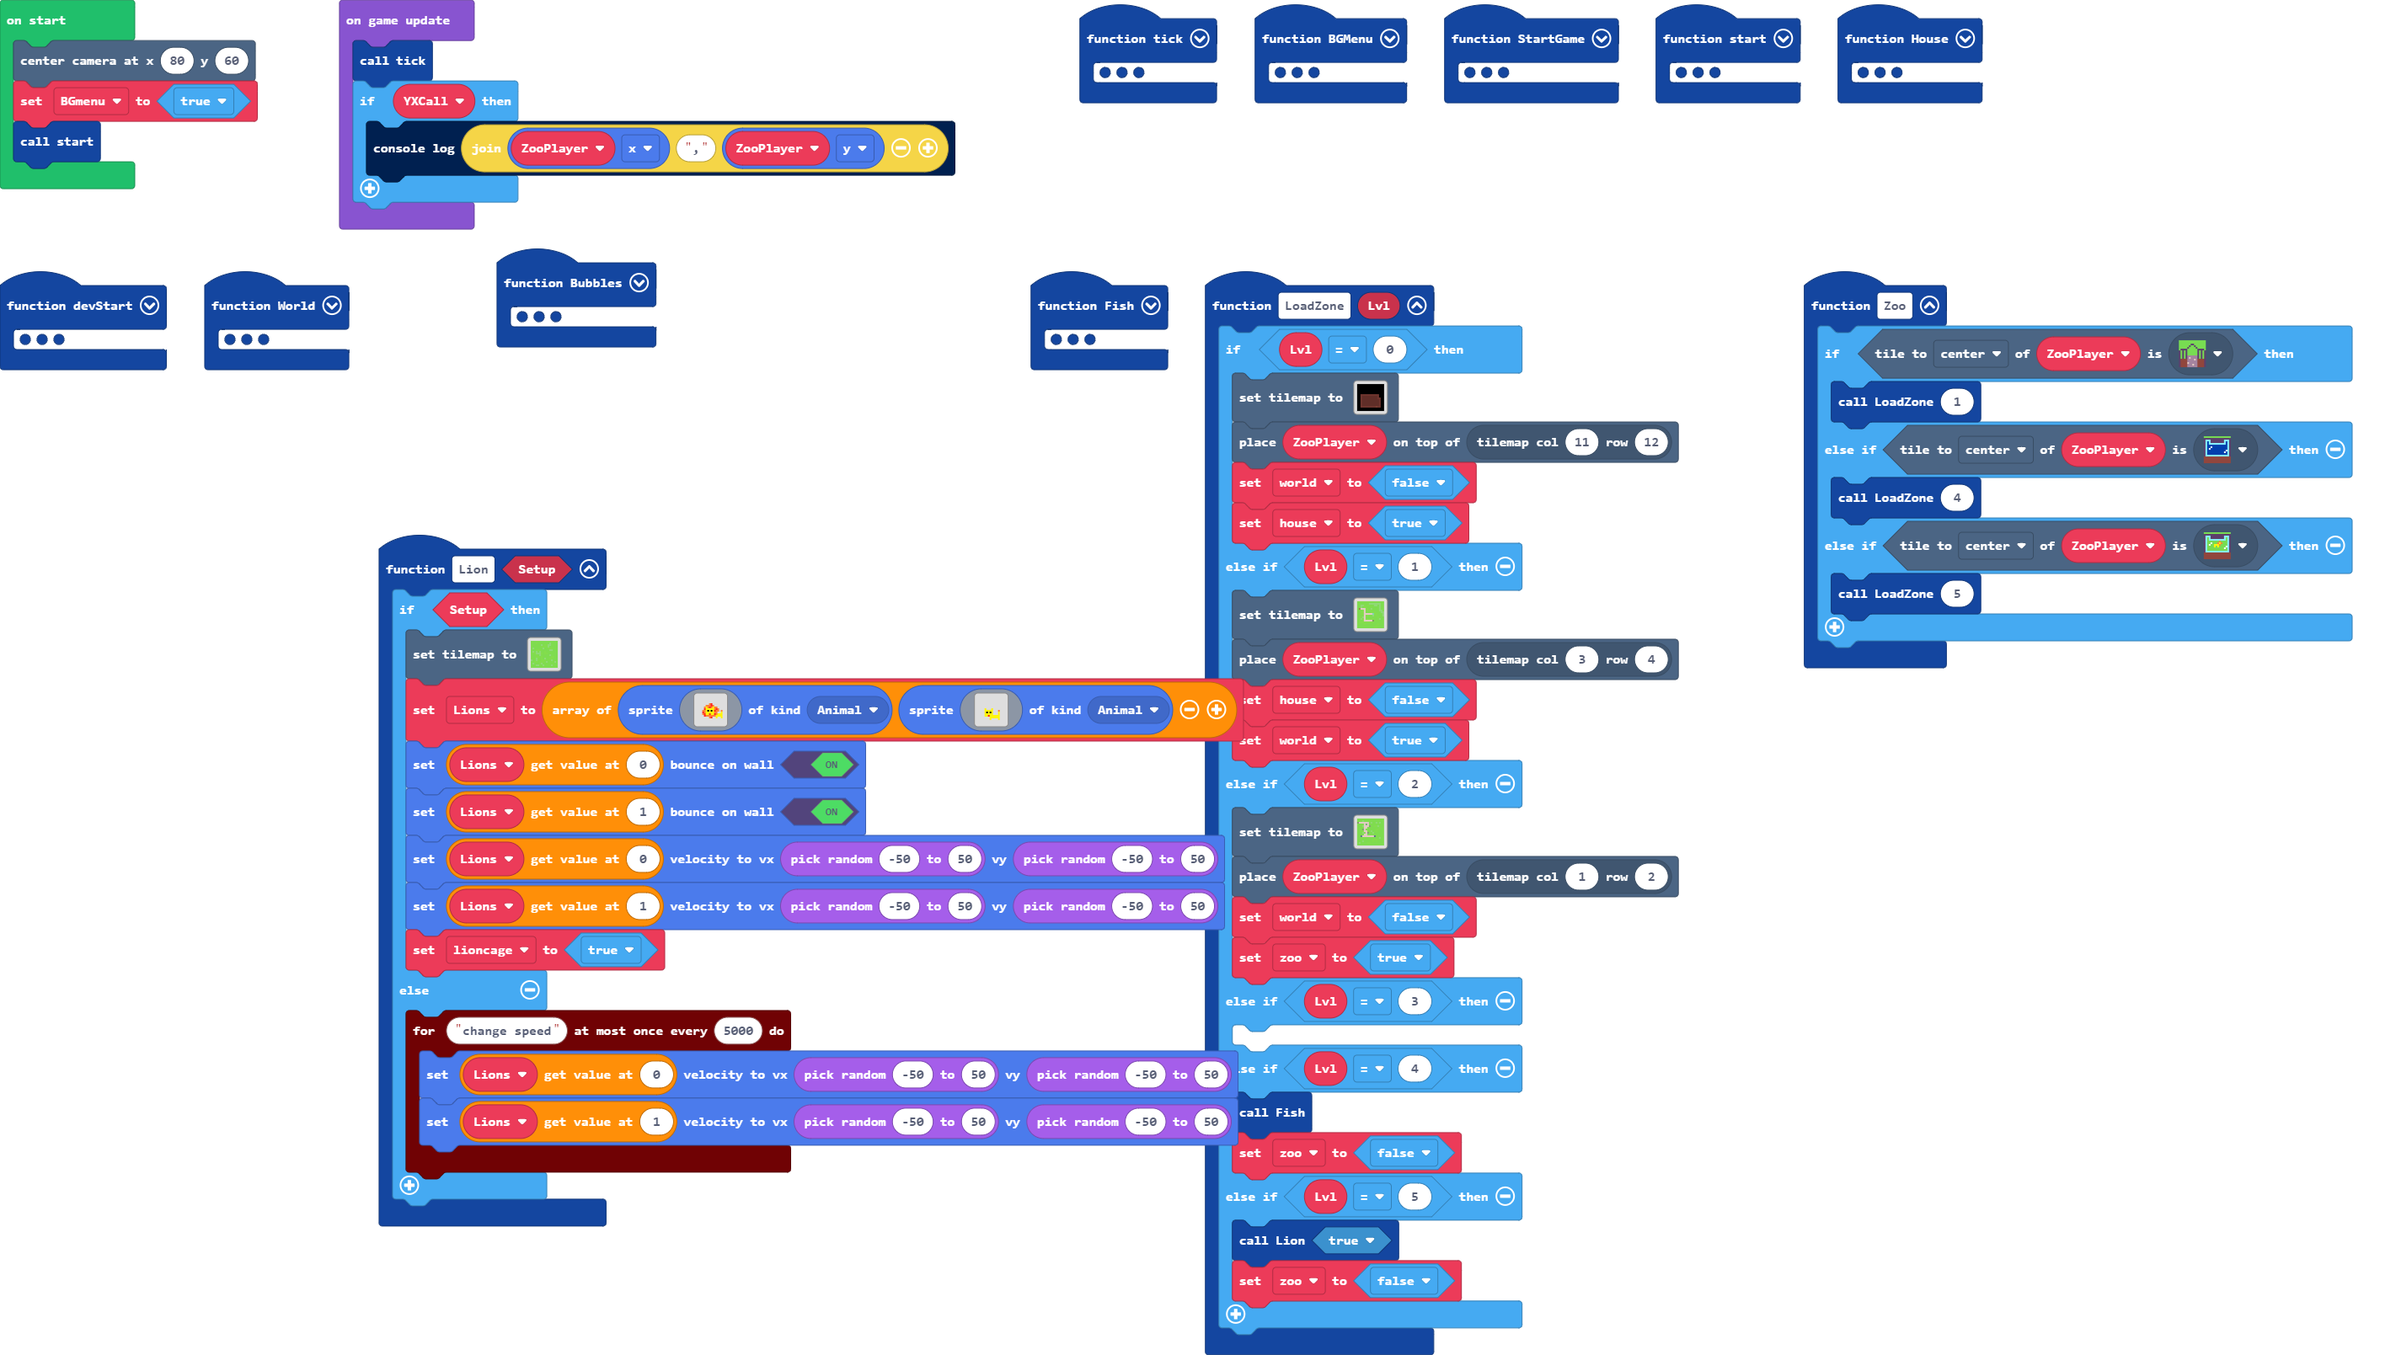
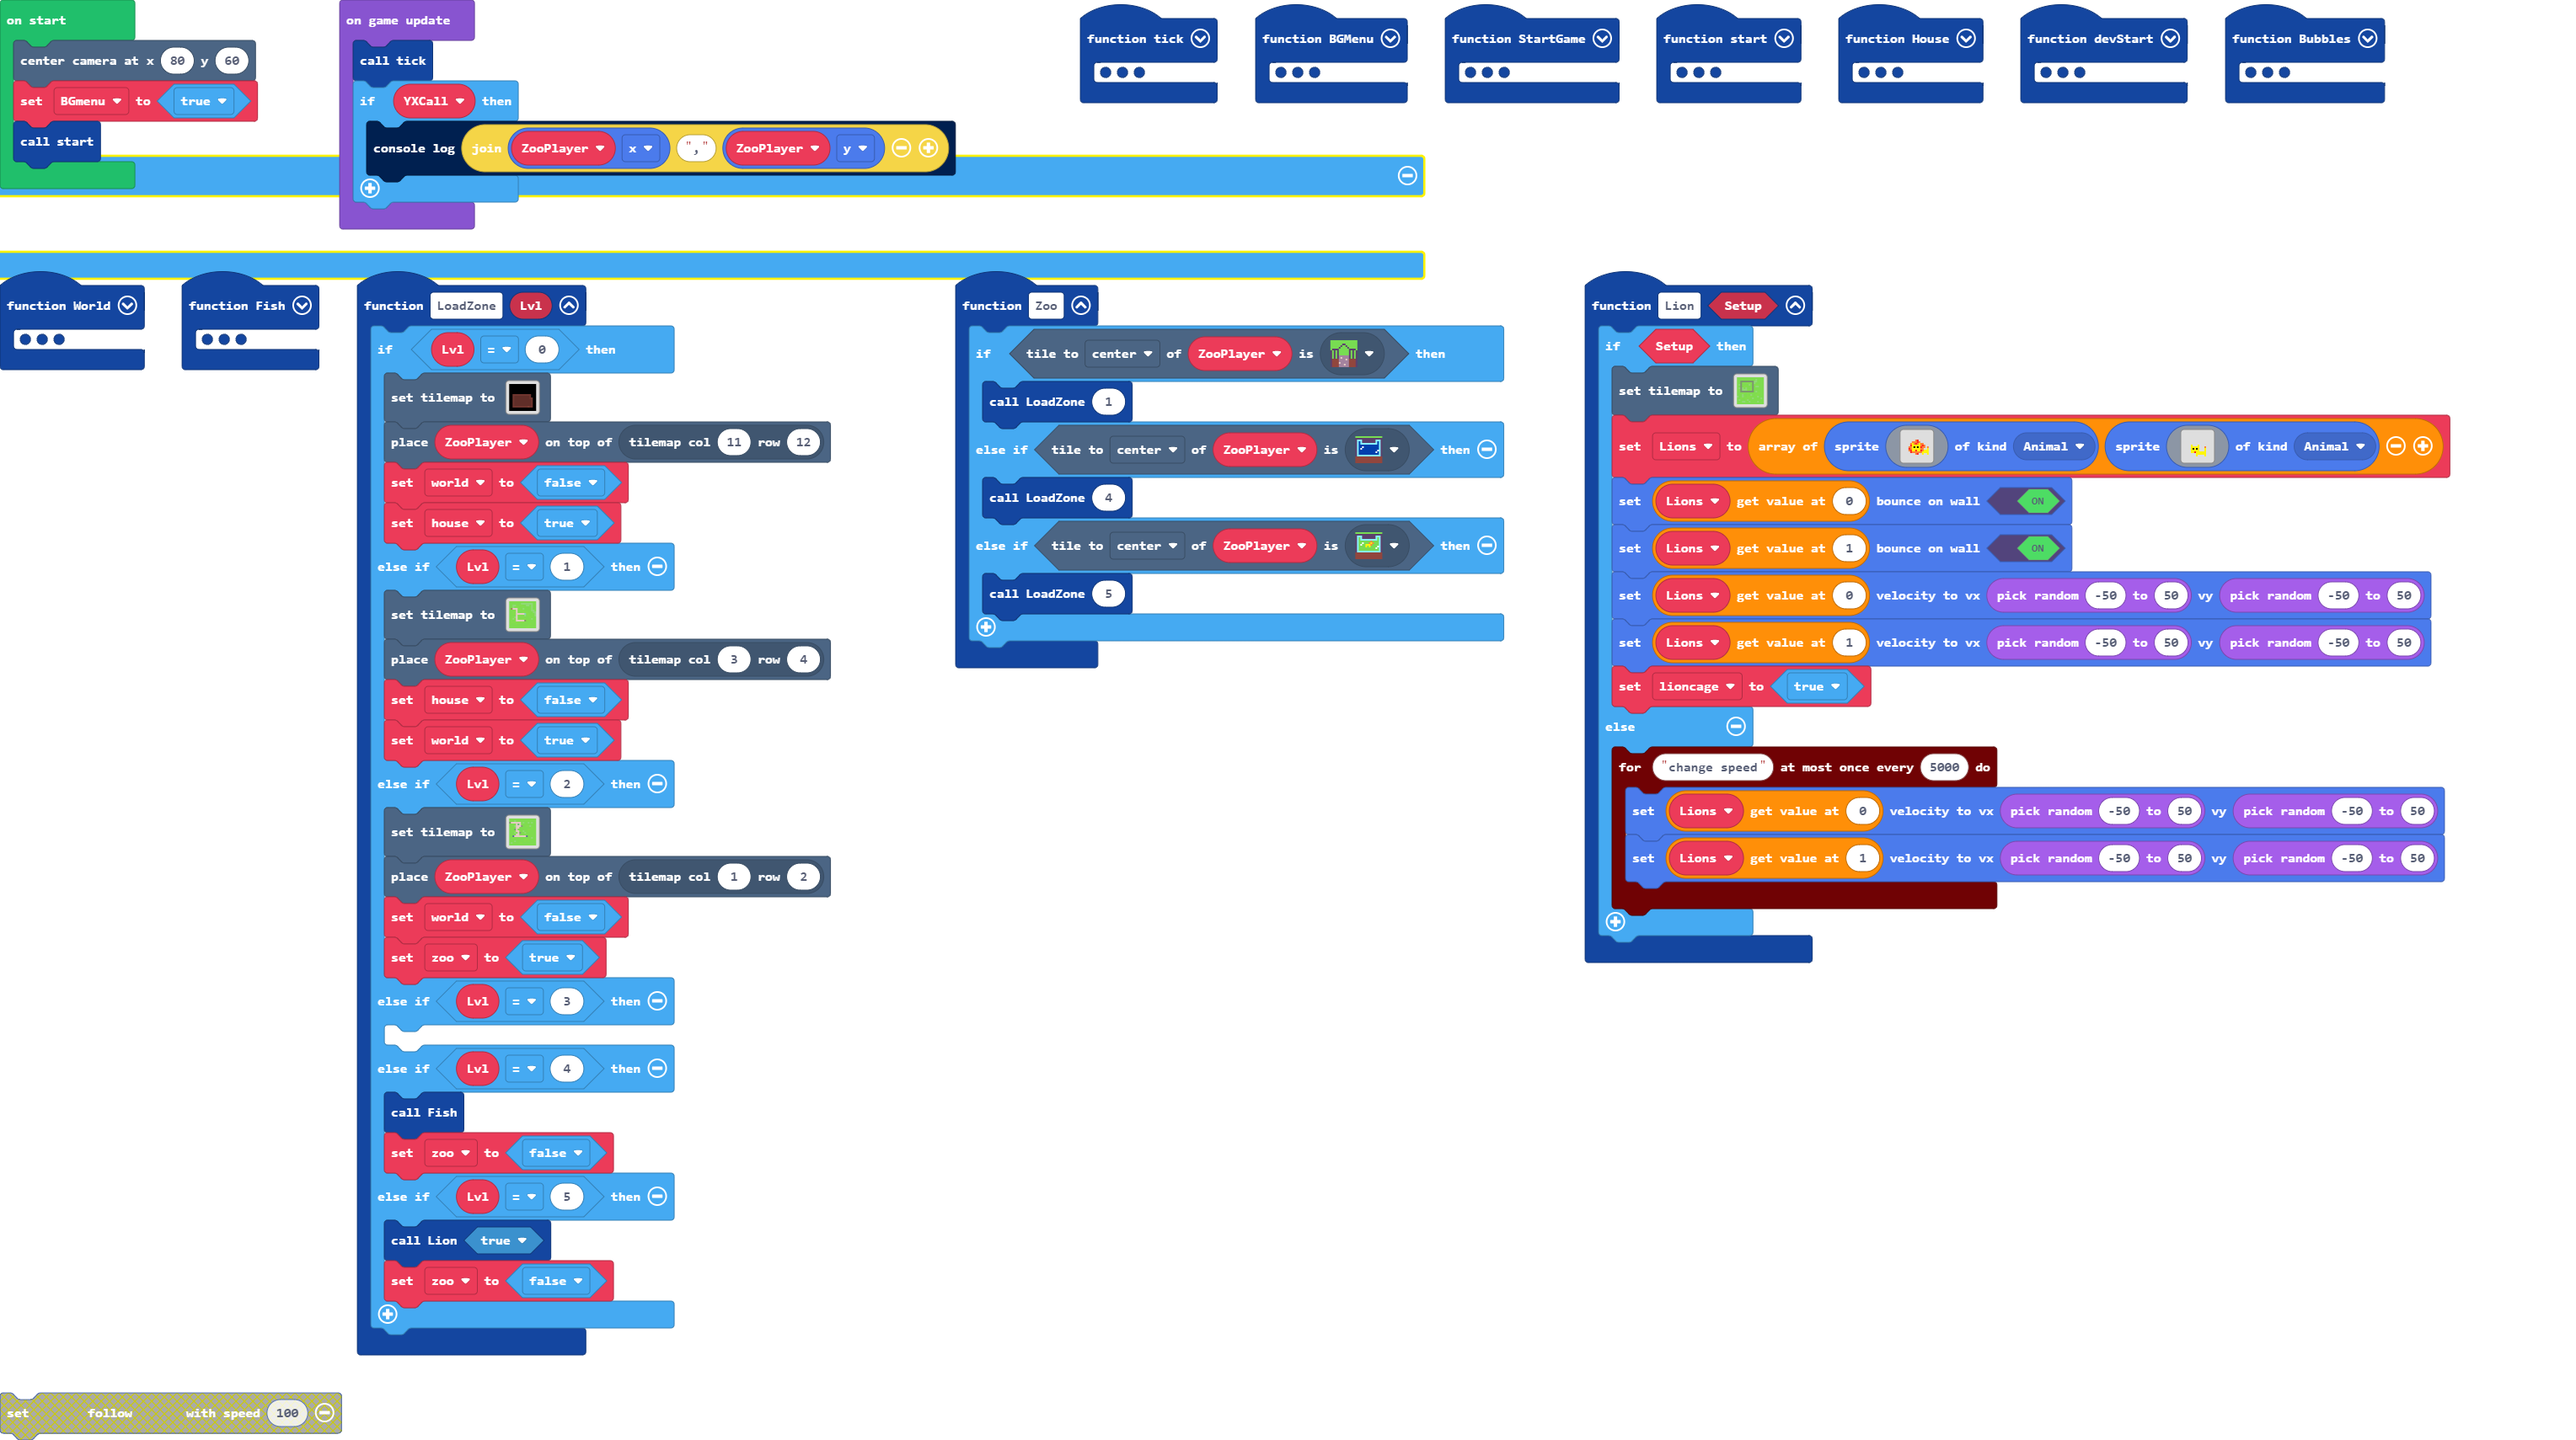
Update main.blocks, tilemap.g.jres, tilemap.g.ts

diff --git a/tilemap.g.ts b/tilemap.g.ts
@@ -32,6 +32,14 @@ namespace myTiles {
     export const tile14 = image.ofBuffer(hex``);
     //% fixedInstance jres blockIdentity=images._tile
     export const tile15 = image.ofBuffer(hex``);
+    //% fixedInstance jres blockIdentity=images._tile
+    export const tile16 = image.ofBuffer(hex``);
+    //% fixedInstance jres blockIdentity=images._tile
+    export const tile17 = image.ofBuffer(hex``);
+    //% fixedInstance jres blockIdentity=images._tile
+    export const tile19 = image.ofBuffer(hex``);
+    //% fixedInstance jres blockIdentity=images._tile
+    export const tile18 = image.ofBuffer(hex``);
 
     helpers._registerFactory("tilemap", function(name: string) {
         switch(helpers.stringTrim(name)) {
@@ -283,7 +291,7 @@ namespace myTiles {
 . . . . . . . . . . . . . . . . 
 `, [myTiles.transparency16,myTiles.tile3,sprites.castle.tileGrass1,sprites.castle.tileGrass3,sprites.castle.tileGrass2,sprites.castle.tilePath5,myTiles.tile6,myTiles.tile7,myTiles.tile8,myTiles.tile15], TileScale.Sixteen);
             case "level15":
-            case "level13":return tiles.createTilemap(hex`1000100002020202020202020202020202020202020202030202020202020201020202020202020202020102030301010202020202020202020203030303010202020202020102020202020102020303030202020202020303030202020202010102020202010201020102020302020202020202020303010101030203030202020202020202020302010202020202010202020202020203030203020202020203030202020202010202030201020203030202020102020103020303030202020102020202020303020303030201020202020102020102020203010202020202020202020202020101020201020202020102020202020202020202020202020202020202`, img`
+            case "level13":return tiles.createTilemap(hex`1000100002020202020202020202020202020202020202030202020202020201020202020202040404040404040401010202020202020502020203030306010202020202020105020202020102060303030202020202050203030202020602010102020202010501020102020306020202020202020305010101030203060202020202020202040404040404040402010202020202020203030203020202020203030202020202010202030201020203030202020102020103020303030202020102020202020303020303030201020202020102020102020203010202020202020202020202020101020201020202020102020202020202020202020202020202020202`, img`
 . . . . . . . . . . . . . . . . 
 . . . . . . . . . . . . . . . . 
 . . 2 2 2 2 2 2 2 2 . . . . . . 
@@ -300,7 +308,7 @@ namespace myTiles {
 . . . . . . . . . . . . . . . . 
 . . . . . . . . . . . . . . . . 
 . . . . . . . . . . . . . . . . 
-`, [myTiles.transparency16,sprites.castle.tileGrass2,sprites.castle.tileGrass1,sprites.castle.tileGrass3], TileScale.Sixteen);
+`, [myTiles.transparency16,sprites.castle.tileGrass2,sprites.castle.tileGrass1,sprites.castle.tileGrass3,myTiles.tile17,myTiles.tile19,myTiles.tile18], TileScale.Sixteen);
         }
         return null;
     })
@@ -338,6 +346,14 @@ namespace myTiles {
             case "tile14":return tile14;
             case "myTile13":
             case "tile15":return tile15;
+            case "myTile14":
+            case "tile16":return tile16;
+            case "myTile15":
+            case "tile17":return tile17;
+            case "myTile17":
+            case "tile19":return tile19;
+            case "myTile16":
+            case "tile18":return tile18;
         }
         return null;
     })
